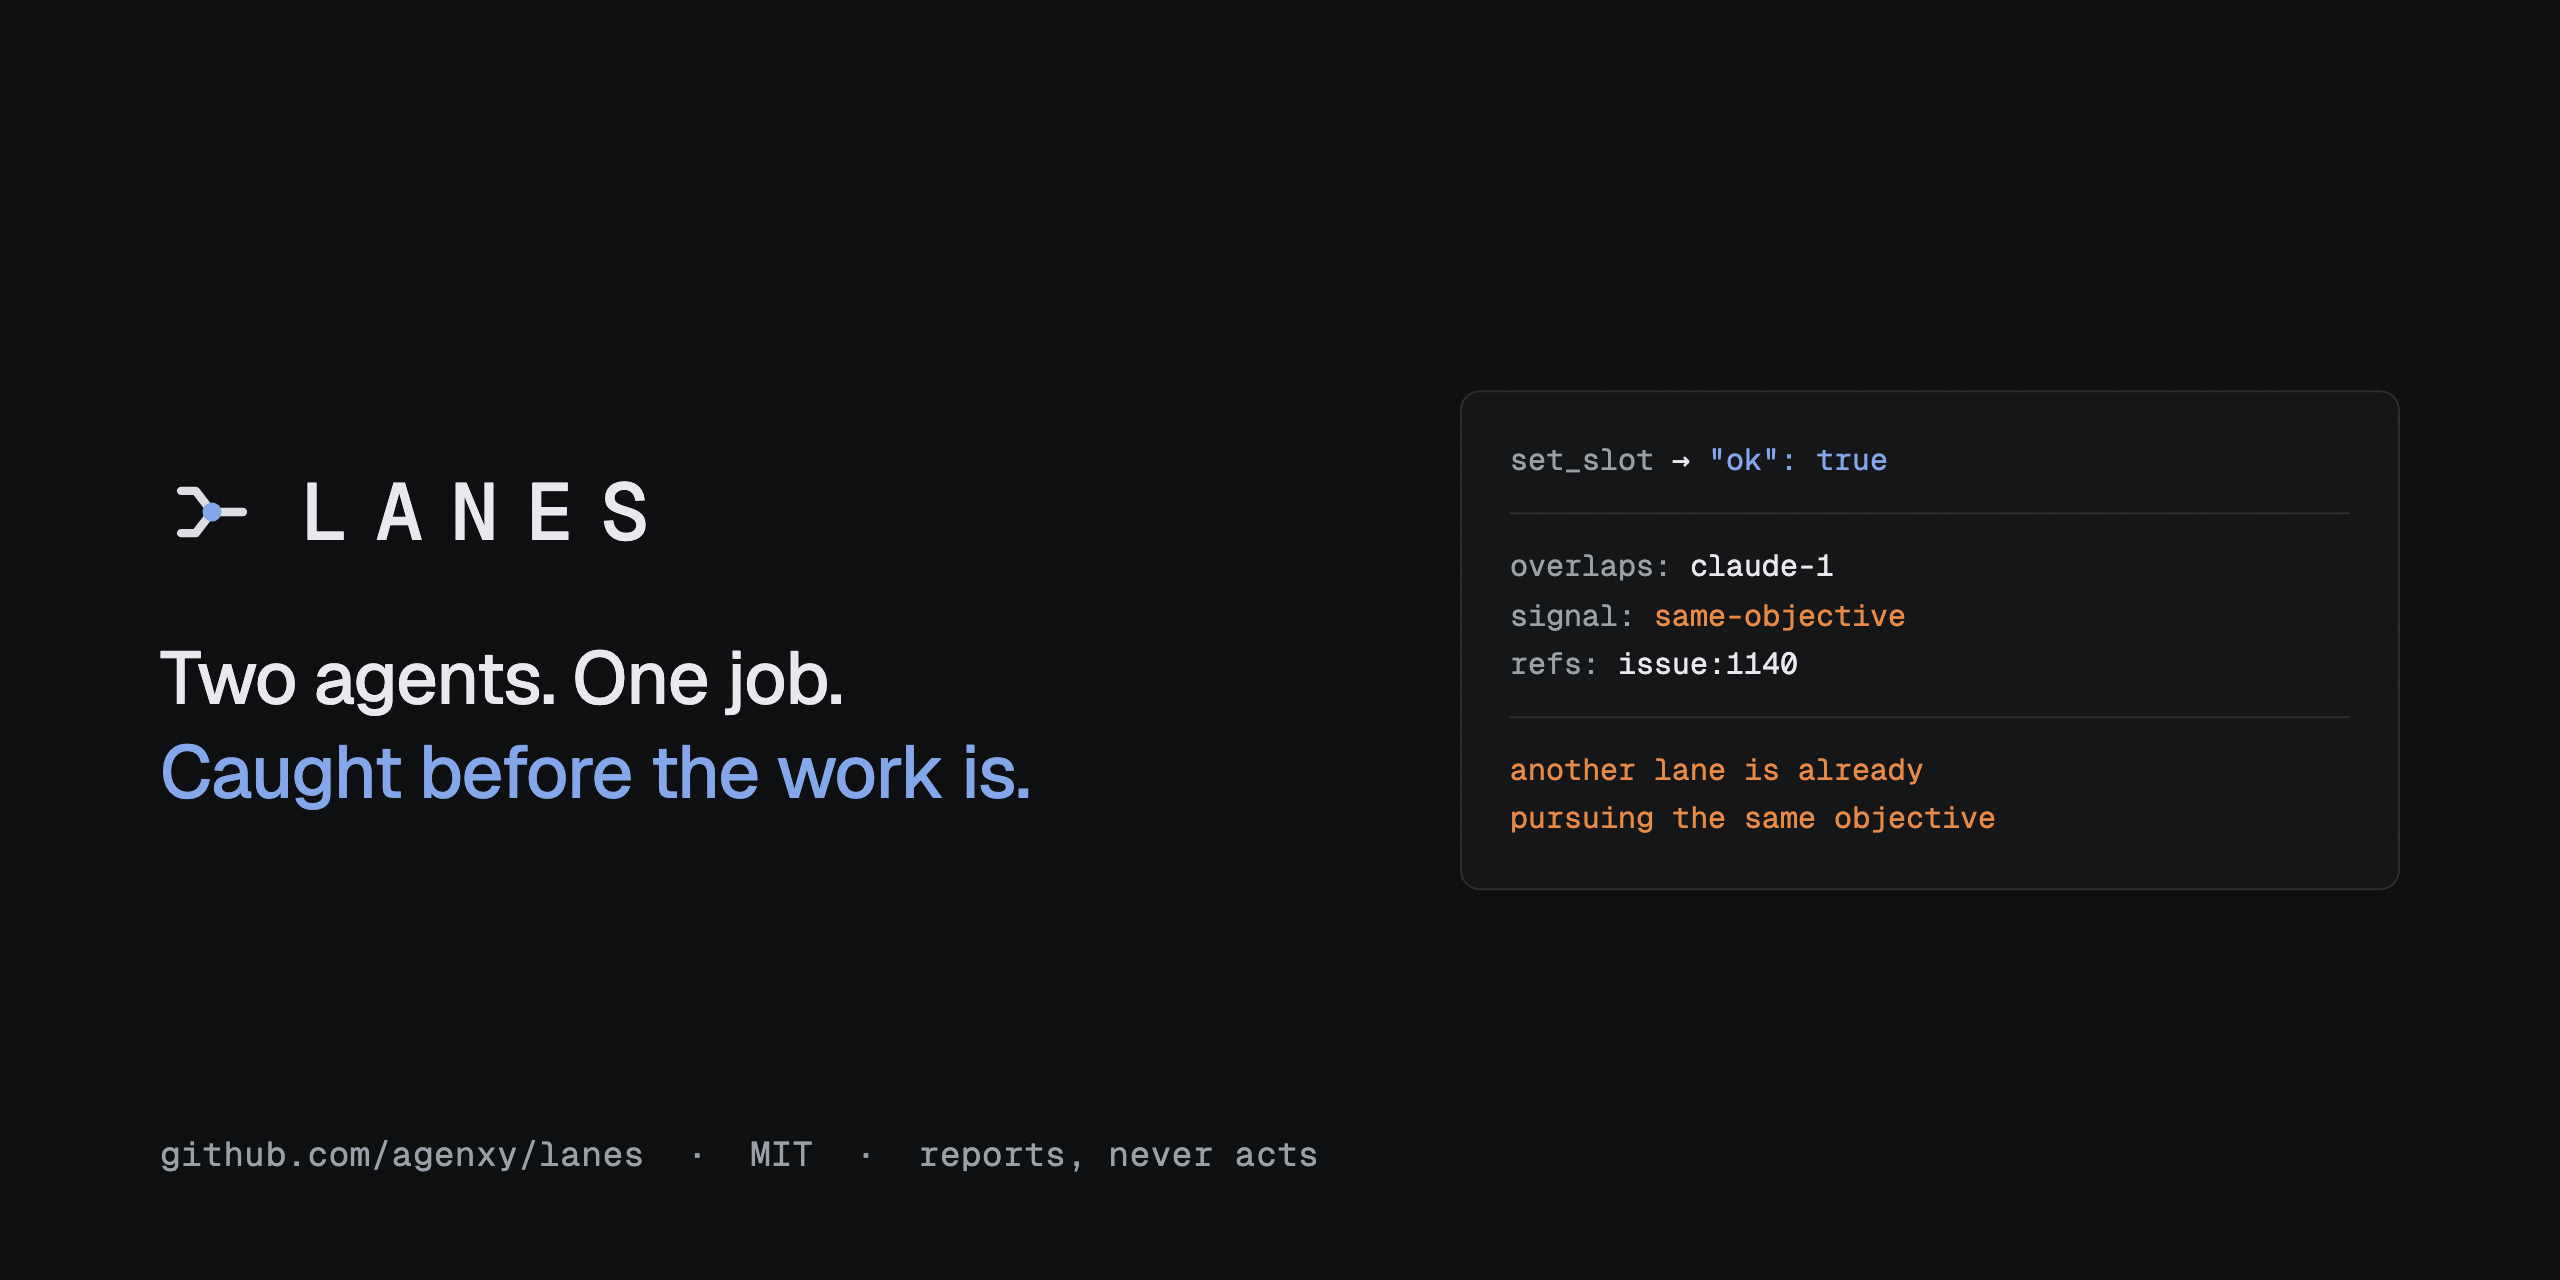
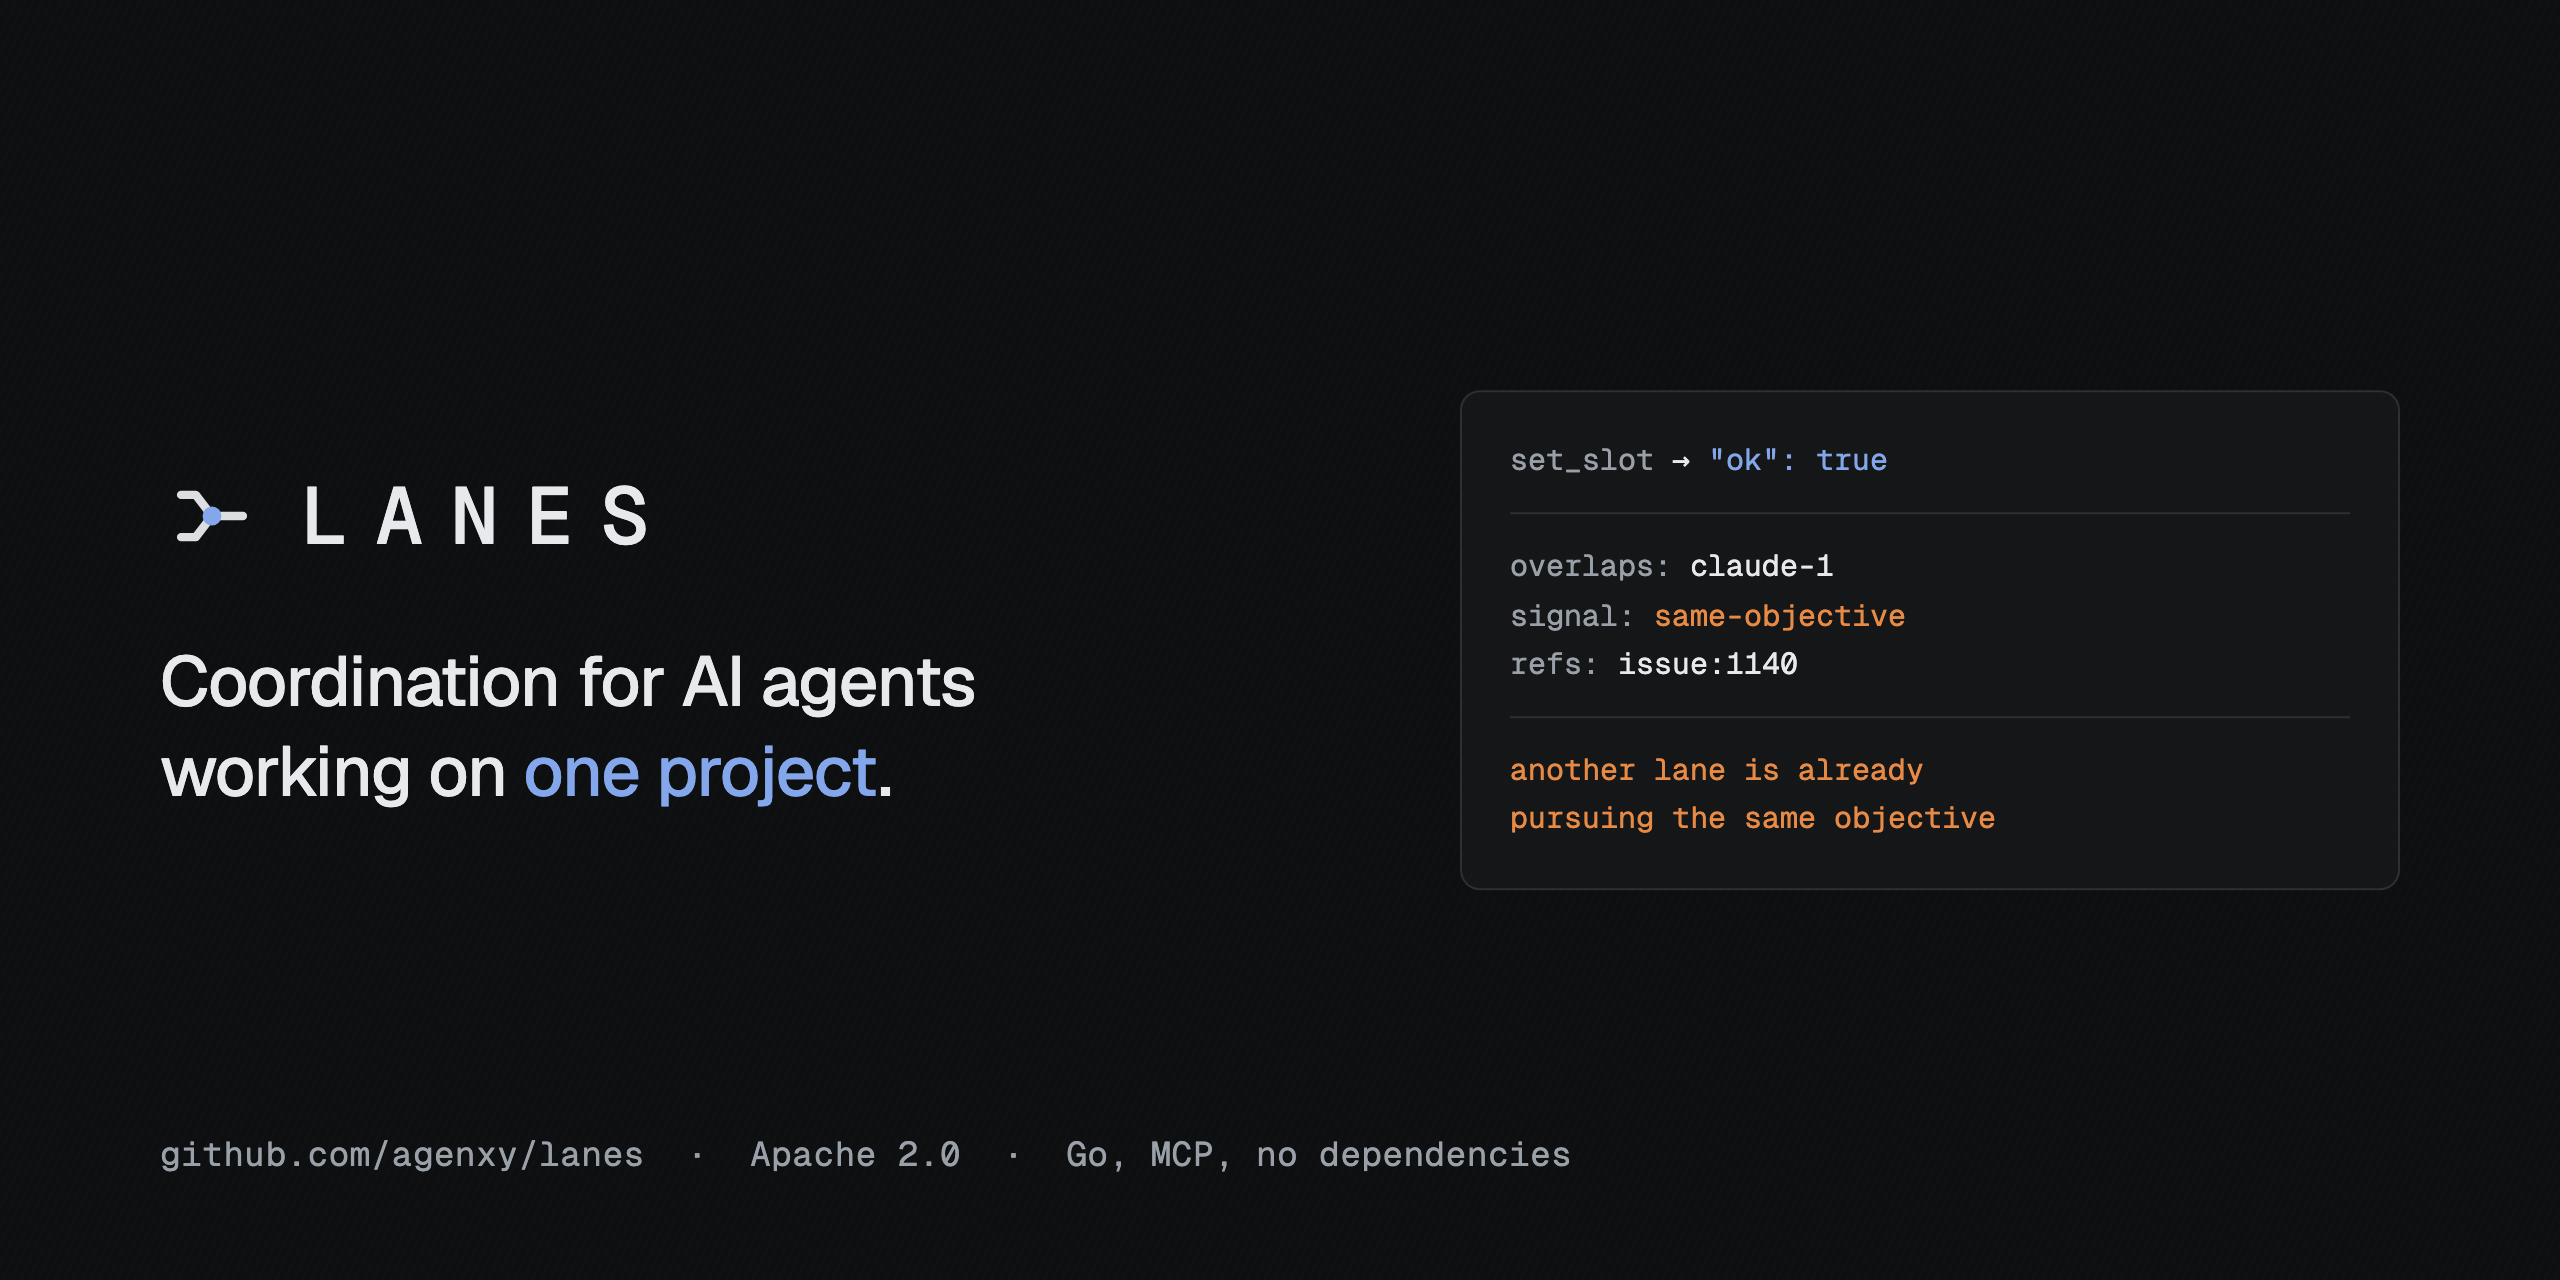
say what it does, not how good it is
The social card carried a tagline, 'Two agents. One job. Caught before the work
is.' That is an advertisement: a rhetorical shape chosen for rhythm, telling a
reader nothing they can act on. It now states what Lanes is, and the code panel
beside it does the demonstrating. It also still said MIT.

Two flourishes in the prose went the same way. 'That is the whole product' and
'That is the entire product' are the writer telling you something is important
instead of showing you. Replaced with what actually happens: ok is true, Lanes
recorded the declaration, named the peer, and left the decision to the agents.
'The thirty-second version' is elevator-pitch framing; the section is now called
what it contains.

Developers discount sales language and read code samples, so the parts that were
already doing the work, the captured transcript and the honest limits, are the
parts to keep.

The rest of the audit came back clean. 'first-class', 'simply' and 'out of the
box' appear a handful of times, all in their ordinary technical senses.

task ci green.

diff --git a/README.md b/README.md
@@ -20,7 +20,7 @@ is pursuing, and is told immediately if someone else is already pursuing it.
 
 ![The Lanes board: five agents, what each is working on, and what is outstanding](docs/board.webp)
 
-### The thirty-second version
+### What a collision looks like
 
 Two agents, in different windows, set out to do the same thing. The second one
 declares its work and Lanes answers:
@@ -47,9 +47,9 @@ declares its work and Lanes answers:
 }
 ```
 
-That is the whole product. `ok` is `true`: Lanes did not stop anything, and
-could not. It made both agents aware, named the peer, and left the decision with
-them. [Fifteen-minute tutorial →](docs/TUTORIAL.md)
+`ok` is `true`. Lanes did not stop anything and cannot: it recorded the
+declaration, named the peer already pursuing that objective, and left the
+decision to the two agents. [Tutorial](docs/TUTORIAL.md).
 
 Agents exchange typed messages through private **mailboxes**: questions,
 requests to approve or deny, FYIs, handoffs, with delivery receipts and

diff --git a/docs/TUTORIAL.md b/docs/TUTORIAL.md
@@ -158,11 +158,10 @@ The second agent gets this back:
 }
 ```
 
-Note what did *not* happen. Nothing was blocked. The second agent is free to
-carry on, and Lanes cannot stop it: the declaration succeeded, `ok` is true. All
-that happened is that both sides now know. That is the entire product: agents
-that can see each other make better decisions than agents that cannot, and an
-orchestrator that overrode them would be wrong as often as it was right.
+Nothing was blocked. The declaration succeeded, `ok` is true, and the second
+agent is free to carry on. What changed is that both sides now know, which is
+the whole mechanism: Lanes has no way to tell which of the two should stop, and
+a component that guessed would be wrong about as often as it was right.
 
 **Only one agent?** Register a second lane from the same session with a different
 name and declare the same work. The overlap check compares lanes, not processes,
